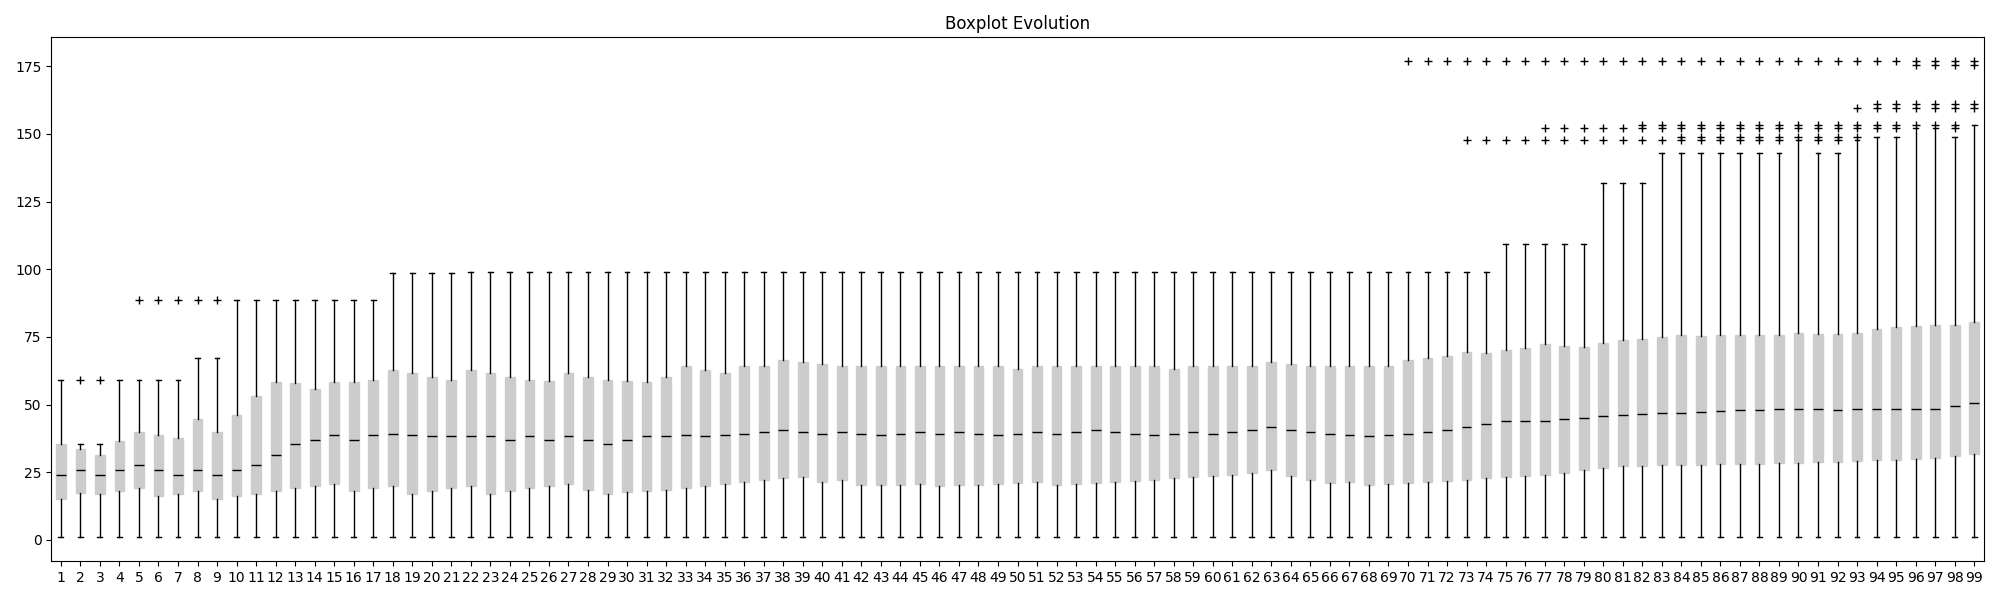
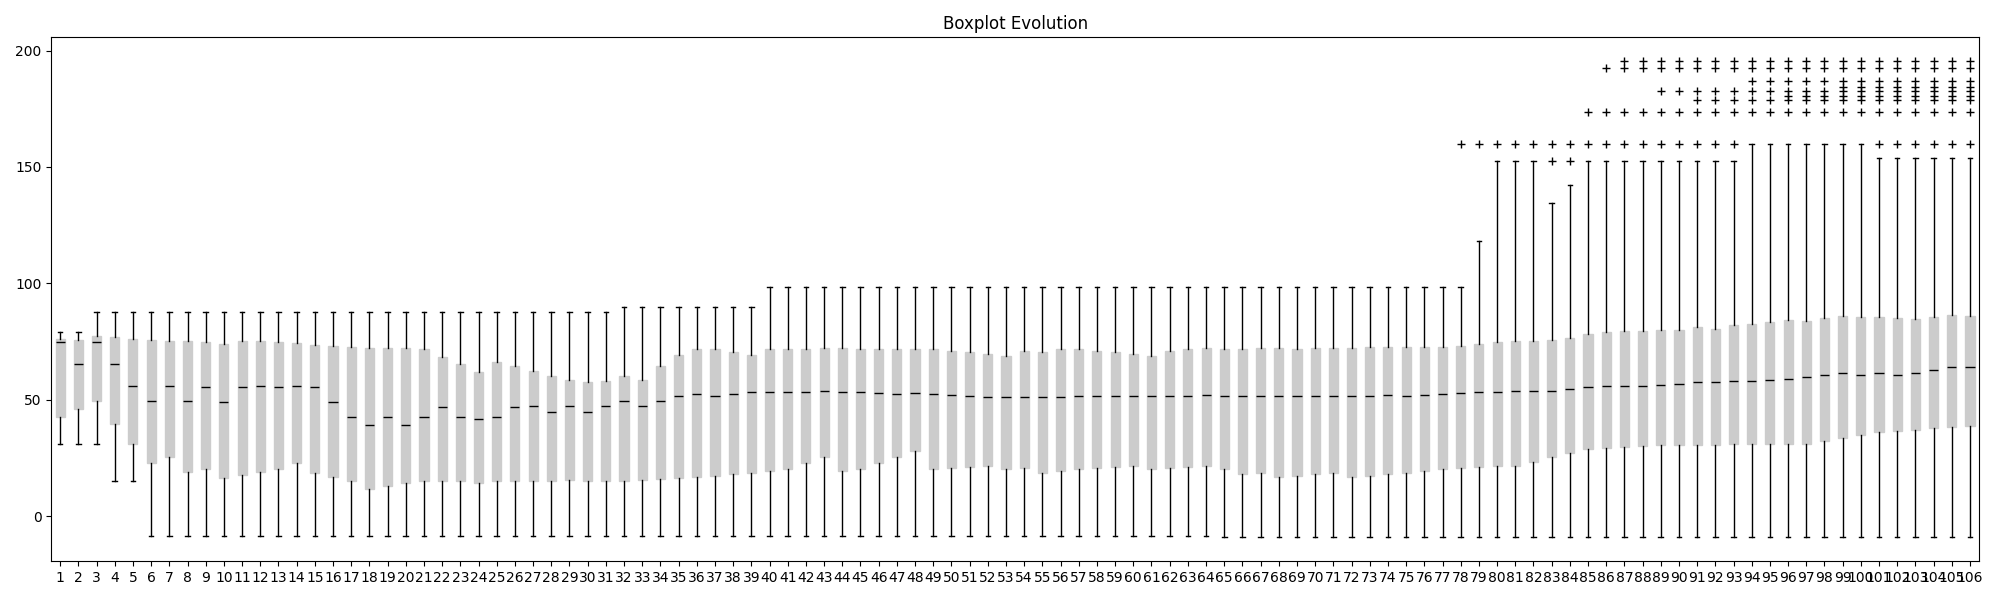
feat: reorganizing

diff --git a/src/rhis_timeseries/scripts/statistical_evolution.py b/src/rhis_timeseries/scripts/statistical_evolution.py
@@ -6,35 +6,8 @@ import scipy.stats.mstats as mst
 
 from rhis_timeseries.hypothesis_tests.non_parametric import NonParametric
 from rhis_timeseries.scripts.duration_curves import dsc  #, asc
-
-
-def ts_for_bxp(ts, interval):
-    ts1 = []
-    for i in range(len(ts)):
-        ts2 = np.array(ts[i])
-        ts3 = ts2[ts2 > 0]
-        try:
-            ts1.append(ts3[interval[0]:-interval[1]])
-        except TypeError:
-            ts1.append(ts3)
-    return ts1
-
-
-def bxp_evol(ts, interval):
-    ts1 = np.array(ts)
-    ts2 = ts1[ts1 > 0]
-    try:
-        ts3 = ts2[interval[0]:-interval[1]]
-    except TypeError:
-        ts3 = ts2
-    slices = []
-    for k in range(len(ts3) - 4):
-        slices.append(ts3[:k + 5])
-    bp = plt.boxplot(slices, patch_artist=True, showfliers=True, showmeans=False)
-    plt.setp(bp['boxes'], color='0.8')
-    plt.setp(bp['whiskers'], color='k', linestyle='-')
-    plt.setp(bp['fliers'], color='k', marker='+')
-    plt.setp(bp['medians'], color='k')
+from rhis_timeseries.utils.evolution import slices2evol
+from rhis_timeseries.utils.plots import boxplot_evol
 
 
 def medians_evol(ts, interval):
@@ -335,12 +308,7 @@ def evol(stat, element, ts, interval, clean):
         return dsc_perms
 
 
-def slices2evol(ts, start):
-    ts1 = np.array(ts)
-    slices = []
-    for i in range(len(ts1) - (start - 1)):
-        slices.append(ts1[:i + start])
-    return slices
+
 
 
 def evolrhis(slices, stat):
@@ -404,8 +372,7 @@ def evolpercentile(slices, percentile):
 
 if __name__ == "__main__":
 
-    x = [list(np.random.uniform(-10., 100., 80)), list(np.random.uniform(30., 200., 30))]
-    ts = ts_for_bxp(x, 'all')
+    ts = [list(np.random.uniform(-10., 100., 80)), list(np.random.uniform(30., 200., 30))]  # noqa: NPY002
     ts1 = np.concatenate((ts[0], ts[1]))
 
     plt.figure(figsize=(8, 6))
@@ -415,7 +382,7 @@ if __name__ == "__main__":
     plt.show()
 
     plt.figure(figsize=(20, 6))
-    bxp_evol(ts1, 'all')
+    boxplot_evol(ts1)
     plt.title("Boxplot Evolution")
     plt.tight_layout()
     plt.show()

diff --git a/src/rhis_timeseries/__main__.py b/src/rhis_timeseries/__main__.py
@@ -5,32 +5,33 @@ from os.path import abspath, dirname, join
 import matplotlib.pyplot as plt
 import numpy as np
 
-from rhis_timeseries.scripts.statistical_evolution import bxp_evol, evolrhis, slices2evol, ts_for_bxp
+from rhis_timeseries.scripts.statistical_evolution import evolrhis
+from rhis_timeseries.utils.evolution import slices2evol
+from rhis_timeseries.utils.plots import bxp_evol
 
 
 def main():
     ROOTPATH = dirname(abspath(__file__))
     EXAMPLE_PLOTS = join(ROOTPATH, "example_plots/")
 
-    x = [list(np.random.uniform(-10., 100., 80)), list(np.random.uniform(30., 200., 30))]
-    ts = ts_for_bxp(x, 'all')
-    ts1 = np.concatenate((ts[0], ts[1]))
+    dataset = [list(np.random.uniform(-10., 100., 80)), list(np.random.uniform(50., 200., 30))]  # noqa: NPY002
+    ts = np.concatenate((dataset[0], dataset[1]))
 
     plt.figure(figsize=(8, 6))
-    plt.plot(ts1)
+    plt.plot(ts)
     plt.title("Original timeseries")
     plt.tight_layout()
     plt.savefig(f"{EXAMPLE_PLOTS}original_ts.png")
     plt.show()
 
     plt.figure(figsize=(20, 6))
-    bxp_evol(ts1, 'all')
+    bxp_evol(ts)
     plt.title("Boxplot Evolution")
     plt.tight_layout()
     plt.savefig(f"{EXAMPLE_PLOTS}boxplot_evolution.png")
     plt.show()
 
-    slices = slices2evol(ts1, 10)
+    slices = slices2evol(ts, 10)
     trend_evol = evolrhis(slices, 'stationarity')
     homo_evol = evolrhis(slices, 'homogeneity')
     ind_evol = evolrhis(slices, 'independence')

diff --git a/src/rhis_timeseries/utils/plots.py b/src/rhis_timeseries/utils/plots.py
@@ -1,0 +1,30 @@
+"""Methods to generate features for plots."""
+from __future__ import annotations
+
+import matplotlib.pyplot as plt
+import numpy as np
+
+
+def boxplot_evol(ts: list[int | float] | np.ndarray) -> None:
+    """Prepare data and build boxplot.
+
+    Parameters
+    ----------
+        ts
+            A list or numpy array with integers or floats
+
+    Returns
+    -------
+        A boxplot
+    """
+    ts1 = np.array(ts) if isinstance(ts, list) else ts
+
+    slices = []
+    for k in range(len(ts1) - 4):
+        slices.append(ts1[:k + 5])
+
+    bp = plt.boxplot(slices, patch_artist=True, showfliers=True, showmeans=False)
+    plt.setp(bp['boxes'], color='0.8')
+    plt.setp(bp['whiskers'], color='k', linestyle='-')
+    plt.setp(bp['fliers'], color='k', marker='+')
+    plt.setp(bp['medians'], color='k')

diff --git a/src/rhis_timeseries/utils/evolution.py b/src/rhis_timeseries/utils/evolution.py
@@ -1,0 +1,20 @@
+"""Methods for evolution insights."""
+from __future__ import annotations
+
+
+def slices2evol(ts: list[int | float], start: int) -> list[list[int | float]]:
+    """Break a flat list into a list of lists (2D).
+
+    Each list will have an increasing number of elements.
+    The element with index n will have one more element than element with index n-1.
+
+    Parameters
+    ----------
+        ts
+            A list with integers or floats.
+    """
+    slices = []
+    for i in range(len(ts) - (start - 1)):
+        slices.append(ts[:i + start])
+
+    return slices
